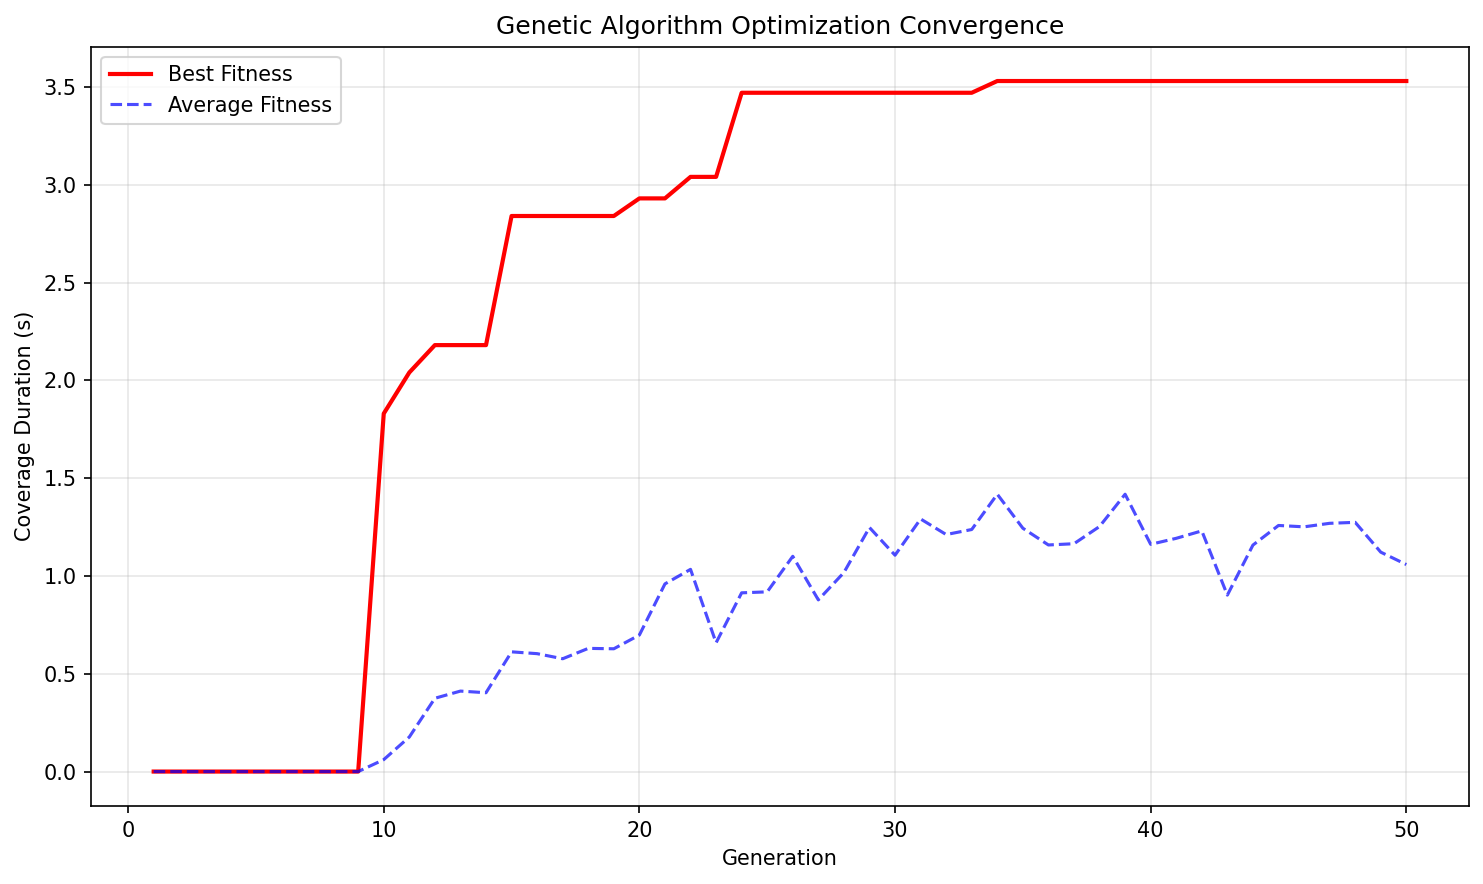
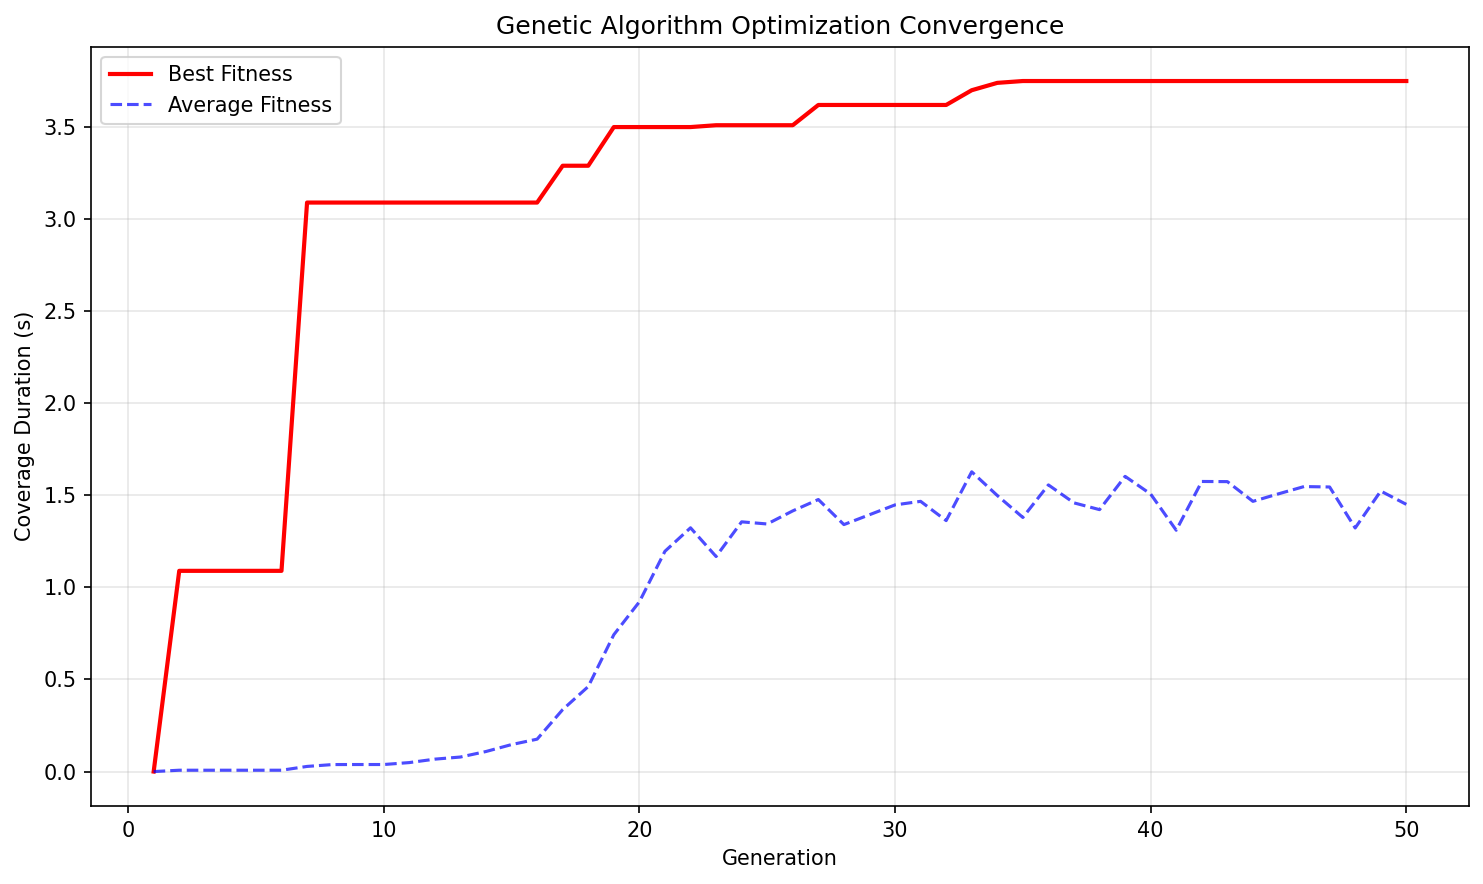
update

diff --git a/src/Problem_object.py b/src/Problem_object.py
@@ -221,8 +221,11 @@ class Global_System_Q123:
 
         def crossover(parent1, parent2):
             child = []
-            child.append((parent1[0] + parent2[0]) / 2 + random.gauss(0, 10))
-            child.append((parent1[1] + parent2[1]) / 2 + random.gauss(0, 10))
+            alpha = random.uniform(0.3, 0.7)
+            child.append(alpha * parent1[0] + (1 - alpha)
+                         * parent2[0] + random.gauss(0, 5))
+            child.append(alpha * parent1[1] + (1 - alpha)
+                         * parent2[1] + random.gauss(0, 5))
 
             velocity_magnitude = np.sqrt(child[0]**2 + child[1]**2)
             if velocity_magnitude < 70:
@@ -236,18 +239,27 @@ class Global_System_Q123:
 
             child_jammers = []
             for i in range(len(parent1[2])):
-                if random.random() < 0.5:
-                    child_jammers.append(parent1[2][i])
+                if random.random() < 0.6:
+                    beta = random.uniform(0.2, 0.8)
+                    father_t = beta * parent1[2][i][0] + \
+                        (1 - beta) * parent2[2][i][0]
+                    smoke_delay = beta * \
+                        parent1[2][i][1] + (1 - beta) * parent2[2][i][1]
+                    child_jammers.append((father_t, smoke_delay))
                 else:
-                    child_jammers.append(parent2[2][i])
+                    child_jammers.append(random.choice(
+                        [parent1[2][i], parent2[2][i]]))
             child.append(child_jammers)
 
             return child
 
         def mutate(individual):
-            if random.random() < 0.2:
-                individual[0] += random.gauss(0, 20)
-                individual[1] += random.gauss(0, 20)
+            mutation_rate = 0.25 if generation < generations // 2 else 0.15
+
+            if random.random() < mutation_rate:
+                noise_scale = max(5, 30 - generation * 25 / generations)
+                individual[0] += random.gauss(0, noise_scale)
+                individual[1] += random.gauss(0, noise_scale)
 
                 velocity_magnitude = np.sqrt(
                     individual[0]**2 + individual[1]**2)
@@ -261,13 +273,17 @@ class Global_System_Q123:
                     individual[1] *= scale
 
             for i in range(len(individual[2])):
-                if random.random() < 0.1:
-                    individual[2][i] = (
-                        max(0.5, min(
-                            3.0, individual[2][i][0] + random.gauss(0, 0.3))),
-                        max(2.0, min(
-                            5.0, individual[2][i][1] + random.gauss(0, 0.3)))
-                    )
+                if random.random() < 0.15:
+                    noise_t = max(0.1, 0.5 - generation * 0.4 / generations)
+                    noise_delay = max(
+                        0.1, 0.6 - generation * 0.5 / generations)
+
+                    new_father_t = max(0.5, min(3.0,
+                                                individual[2][i][0] + random.gauss(0, noise_t)))
+                    new_smoke_delay = max(2.0, min(5.0,
+                                                   individual[2][i][1] + random.gauss(0, noise_delay)))
+
+                    individual[2][i] = (new_father_t, new_smoke_delay)
 
             return individual
 
@@ -302,10 +318,14 @@ class Global_System_Q123:
 
             while len(new_population) < population_size:
                 if sum(fitnesses) > 0:
-                    parent1 = random.choices(
-                        population, weights=fitnesses, k=1)[0]
-                    parent2 = random.choices(
-                        population, weights=fitnesses, k=1)[0]
+                    tournament_size = 3
+                    tournament1 = random.choices(
+                        list(zip(population, fitnesses)), k=tournament_size)
+                    parent1 = max(tournament1, key=lambda x: x[1])[0]
+
+                    tournament2 = random.choices(
+                        list(zip(population, fitnesses)), k=tournament_size)
+                    parent2 = max(tournament2, key=lambda x: x[1])[0]
                 else:
                     parent1 = random.choice(population)
                     parent2 = random.choice(population)

diff --git a/src/Q2.py b/src/Q2.py
@@ -15,7 +15,7 @@ def optimize_Q2():
     print("Optimizing single missile with single drone and multiple jammers")
 
     best_params = global_sys.optimize_single_missile_drone_all_jammers(
-        drone_id='FY1', n_jammers=1, population_size=30, generations=100, plot_convergence=True)
+        drone_id='FY1', n_jammers=1, population_size=150, generations=50, plot_convergence=True)
 
     if best_params:
         print(f"\nOptimization completed!")
